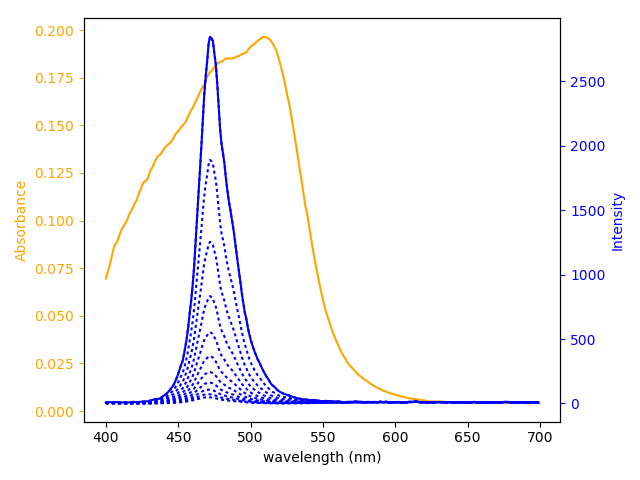
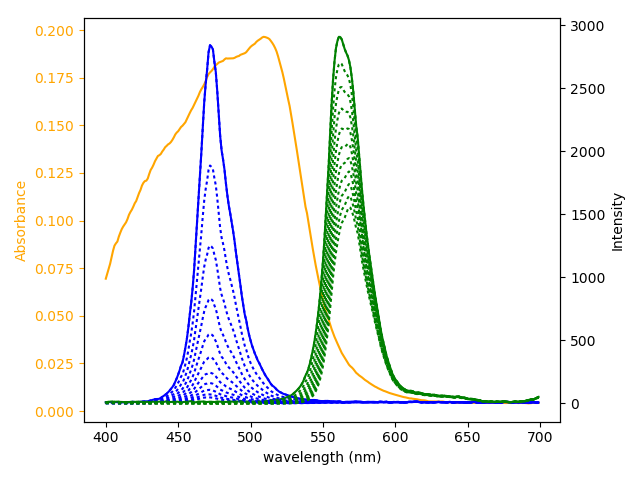
added attenuated emission data for thegreen LED to the figure, and adusted linestyle arguement of the function AttenuatedEmit for color specification

diff --git a/Spectrometer.py b/Spectrometer.py
@@ -92,7 +92,7 @@ def AnnotateFit(fit,axisHandle,annotationText='Eq',color='black',Arrow=False,xAr
                 )
     annotationObject.draggable()
     
-def AttenuatedEmit(colorX,colorY):
+def AttenuatedEmit(colorX,colorY,linestyle =':b'):
     ''' This function takes output from the savsmooth function for each LED color 
     as arguements, plots the attenuated emission for that color LED over a range of
     10 concentraitons, and returns the polyAbs, monoAbs, and concList'''
@@ -108,7 +108,7 @@ def AttenuatedEmit(colorX,colorY):
         transmittance=10**-(sampleAbsorbance)
         attenuatedSource=colorY*transmittance
         P= np.trapz(attenuatedSource)
-        ax2.plot(colorX,attenuatedSource,':b')
+        ax2.plot(colorX,attenuatedSource,linestyle)
         monoAbs[concIndex]=np.max(sampleAbsorbance)
         polyAbs[concIndex]=-np.log10(P/P0)
         concIndex=concIndex+1 
@@ -137,23 +137,25 @@ ax1.tick_params('y', colors='orange')
 
 ax2 = ax1.twinx()
 blueX, blueY = savsmooth(wl,'blue')
+greenX, greenY = savsmooth(wl, 'green')
 
 ax2.plot(blueX,blueY, color='blue')
-ax2.set_ylabel('Intensity', color='blue')
-ax2.tick_params('y', colors='blue')
+ax2.plot(greenX,greenY, color='green')
+ax2.set_ylabel('Intensity')
 
 fig.tight_layout()
 plt.show()
 
 
 
-
-
 polyAbs_blue, monoAbs_blue, concList_blue = AttenuatedEmit(blueX,blueY)
+polyAbs_green, monoAbs_green, concList_green = AttenuatedEmit(greenX, greenY, linestyle = ':g') 
 
 # use the PolyReg function to fit the polychromatic absorbance to a second order  
 fit2=PolyReg(concList_blue[concList_blue<=3],polyAbs_blue[concList_blue<=3],2)
 fit1=PolyReg(concList_blue,polyAbs_blue,2)
+fit3=PolyReg(concList_green,polyAbs_green,2)
+
 
 # plot the data points (polyAbs), and the fit of the polychromatic,
 # and the monochromatic absorbaces
@@ -161,10 +163,13 @@ plt.figure(2)
 ax1 = plt.subplot()
 ax1.plot(concList_blue, polyAbs_blue, 'ob')
 ax1.plot(concList_blue, fit1['poly'](concList_blue),'b')
+ax1.plot(concList_green, polyAbs_green, 'og') 
+ax1.plot(concList_green, fit3['poly'](concList_green),'g')
 ax1.plot(concList_blue, monoAbs_blue, 'k')
 
 # annotate the polychromatic light fit
 AnnotateFit(fit2,ax1,color='blue')
+AnnotateFit(fit3,ax1,color ='green',xText=0.1, yText=0.8)
 
 # label figure
 ax1.set_ylabel('Absorbance')
